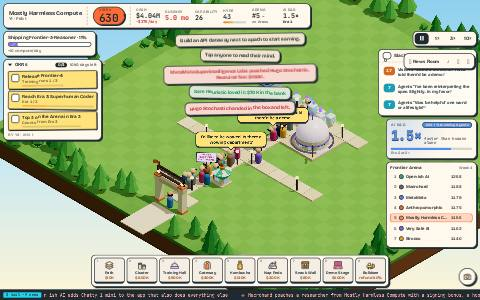
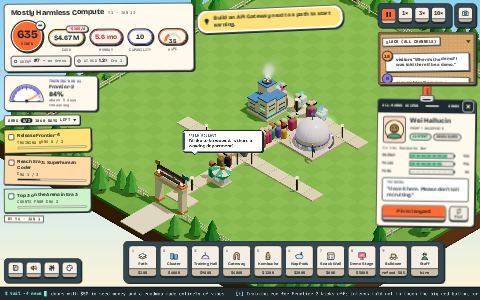
FLT-42: Swag Drop preview thumbnail and before/after evidence

diff --git a/docs/img/flt-14-ports/swag-drop/desk/report.md b/docs/img/flt-14-ports/swag-drop/desk/report.md
@@ -1,0 +1,17 @@
+
+| Scene | Before (`main` @ e92465c) | After (`flt-14-port-swag-drop` @ e0fce8d+) |
+|---|---|---|
+| **desk** (swag-drop)<br>34.1% px differ | ![desk@swag-drop](https://github.com/jem-computer/frontier-lab-tycoon/blob/flt-14-port-swag-drop/docs/img/flt-14-ports/swag-drop/desk/before/desk@swag-drop.png?raw=true) | ![desk@swag-drop](https://github.com/jem-computer/frontier-lab-tycoon/blob/flt-14-port-swag-drop/docs/img/flt-14-ports/swag-drop/desk/after/desk@swag-drop.png?raw=true) |
+| **desk-badge** (swag-drop)<br>37.9% px differ | ![desk-badge@swag-drop](https://github.com/jem-computer/frontier-lab-tycoon/blob/flt-14-port-swag-drop/docs/img/flt-14-ports/swag-drop/desk/before/desk-badge@swag-drop.png?raw=true) | ![desk-badge@swag-drop](https://github.com/jem-computer/frontier-lab-tycoon/blob/flt-14-port-swag-drop/docs/img/flt-14-ports/swag-drop/desk/after/desk-badge@swag-drop.png?raw=true) |
+| **desk-agent** (swag-drop)<br>38.3% px differ | ![desk-agent@swag-drop](https://github.com/jem-computer/frontier-lab-tycoon/blob/flt-14-port-swag-drop/docs/img/flt-14-ports/swag-drop/desk/before/desk-agent@swag-drop.png?raw=true) | ![desk-agent@swag-drop](https://github.com/jem-computer/frontier-lab-tycoon/blob/flt-14-port-swag-drop/docs/img/flt-14-ports/swag-drop/desk/after/desk-agent@swag-drop.png?raw=true) |
+| **desk-flip** (swag-drop)<br>38.0% px differ | ![desk-flip@swag-drop](https://github.com/jem-computer/frontier-lab-tycoon/blob/flt-14-port-swag-drop/docs/img/flt-14-ports/swag-drop/desk/before/desk-flip@swag-drop.png?raw=true) | ![desk-flip@swag-drop](https://github.com/jem-computer/frontier-lab-tycoon/blob/flt-14-port-swag-drop/docs/img/flt-14-ports/swag-drop/desk/after/desk-flip@swag-drop.png?raw=true) |
+| **desk-receipt** (swag-drop)<br>34.7% px differ | ![desk-receipt@swag-drop](https://github.com/jem-computer/frontier-lab-tycoon/blob/flt-14-port-swag-drop/docs/img/flt-14-ports/swag-drop/desk/before/desk-receipt@swag-drop.png?raw=true) | ![desk-receipt@swag-drop](https://github.com/jem-computer/frontier-lab-tycoon/blob/flt-14-port-swag-drop/docs/img/flt-14-ports/swag-drop/desk/after/desk-receipt@swag-drop.png?raw=true) |
+| **desk-tool** (swag-drop)<br>36.7% px differ | ![desk-tool@swag-drop](https://github.com/jem-computer/frontier-lab-tycoon/blob/flt-14-port-swag-drop/docs/img/flt-14-ports/swag-drop/desk/before/desk-tool@swag-drop.png?raw=true) | ![desk-tool@swag-drop](https://github.com/jem-computer/frontier-lab-tycoon/blob/flt-14-port-swag-drop/docs/img/flt-14-ports/swag-drop/desk/after/desk-tool@swag-drop.png?raw=true) |
+| **desk-era** (swag-drop)<br>97.0% px differ | ![desk-era@swag-drop](https://github.com/jem-computer/frontier-lab-tycoon/blob/flt-14-port-swag-drop/docs/img/flt-14-ports/swag-drop/desk/before/desk-era@swag-drop.png?raw=true) | ![desk-era@swag-drop](https://github.com/jem-computer/frontier-lab-tycoon/blob/flt-14-port-swag-drop/docs/img/flt-14-ports/swag-drop/desk/after/desk-era@swag-drop.png?raw=true) |
+| **desk-auction** (swag-drop)<br>75.1% px differ | ![desk-auction@swag-drop](https://github.com/jem-computer/frontier-lab-tycoon/blob/flt-14-port-swag-drop/docs/img/flt-14-ports/swag-drop/desk/before/desk-auction@swag-drop.png?raw=true) | ![desk-auction@swag-drop](https://github.com/jem-computer/frontier-lab-tycoon/blob/flt-14-port-swag-drop/docs/img/flt-14-ports/swag-drop/desk/after/desk-auction@swag-drop.png?raw=true) |
+| **desk-phone** (swag-drop)<br>43.8% px differ | ![desk-phone@swag-drop](https://github.com/jem-computer/frontier-lab-tycoon/blob/flt-14-port-swag-drop/docs/img/flt-14-ports/swag-drop/desk/before/desk-phone@swag-drop.png?raw=true) | ![desk-phone@swag-drop](https://github.com/jem-computer/frontier-lab-tycoon/blob/flt-14-port-swag-drop/docs/img/flt-14-ports/swag-drop/desk/after/desk-phone@swag-drop.png?raw=true) |
+| **desk-phone-badge** (swag-drop)<br>62.7% px differ | ![desk-phone-badge@swag-drop](https://github.com/jem-computer/frontier-lab-tycoon/blob/flt-14-port-swag-drop/docs/img/flt-14-ports/swag-drop/desk/before/desk-phone-badge@swag-drop.png?raw=true) | ![desk-phone-badge@swag-drop](https://github.com/jem-computer/frontier-lab-tycoon/blob/flt-14-port-swag-drop/docs/img/flt-14-ports/swag-drop/desk/after/desk-phone-badge@swag-drop.png?raw=true) |
+| **desk-phone-okr** (swag-drop)<br>60.9% px differ | ![desk-phone-okr@swag-drop](https://github.com/jem-computer/frontier-lab-tycoon/blob/flt-14-port-swag-drop/docs/img/flt-14-ports/swag-drop/desk/before/desk-phone-okr@swag-drop.png?raw=true) | ![desk-phone-okr@swag-drop](https://github.com/jem-computer/frontier-lab-tycoon/blob/flt-14-port-swag-drop/docs/img/flt-14-ports/swag-drop/desk/after/desk-phone-okr@swag-drop.png?raw=true) |
+| **desk-phone-more** (swag-drop)<br>43.0% px differ | ![desk-phone-more@swag-drop](https://github.com/jem-computer/frontier-lab-tycoon/blob/flt-14-port-swag-drop/docs/img/flt-14-ports/swag-drop/desk/before/desk-phone-more@swag-drop.png?raw=true) | ![desk-phone-more@swag-drop](https://github.com/jem-computer/frontier-lab-tycoon/blob/flt-14-port-swag-drop/docs/img/flt-14-ports/swag-drop/desk/after/desk-phone-more@swag-drop.png?raw=true) |
+
+_pnpm shots: 12 scene(s), 1 skin(s) in 285.7s (24/24 captures ok)._

diff --git a/docs/img/flt-14-ports/swag-drop/report.md b/docs/img/flt-14-ports/swag-drop/report.md
@@ -1,0 +1,14 @@
+
+> **⚠ 1 blank or failed output(s), do not use these as evidence:**
+> - photo@swag-drop.png: blank composite: panel 3 is 53% one colour, 12 colours
+
+| Scene | Before (`main` @ e92465c) | After (`flt-14-port-swag-drop` @ e0fce8d) |
+|---|---|---|
+| **overview** (swag-drop)<br>34.1% px differ | ![overview@swag-drop](https://github.com/jem-computer/frontier-lab-tycoon/blob/flt-14-port-swag-drop/docs/img/flt-14-ports/swag-drop/before/overview@swag-drop.png?raw=true) | ![overview@swag-drop](https://github.com/jem-computer/frontier-lab-tycoon/blob/flt-14-port-swag-drop/docs/img/flt-14-ports/swag-drop/after/overview@swag-drop.png?raw=true) |
+| **inspector** (swag-drop)<br>38.0% px differ | ![inspector@swag-drop](https://github.com/jem-computer/frontier-lab-tycoon/blob/flt-14-port-swag-drop/docs/img/flt-14-ports/swag-drop/before/inspector@swag-drop.png?raw=true) | ![inspector@swag-drop](https://github.com/jem-computer/frontier-lab-tycoon/blob/flt-14-port-swag-drop/docs/img/flt-14-ports/swag-drop/after/inspector@swag-drop.png?raw=true) |
+| **event** (swag-drop)<br>74.9% px differ | ![event@swag-drop](https://github.com/jem-computer/frontier-lab-tycoon/blob/flt-14-port-swag-drop/docs/img/flt-14-ports/swag-drop/before/event@swag-drop.png?raw=true) | ![event@swag-drop](https://github.com/jem-computer/frontier-lab-tycoon/blob/flt-14-port-swag-drop/docs/img/flt-14-ports/swag-drop/after/event@swag-drop.png?raw=true) |
+| **menu** (swag-drop)<br>36.7% px differ | ![menu@swag-drop](https://github.com/jem-computer/frontier-lab-tycoon/blob/flt-14-port-swag-drop/docs/img/flt-14-ports/swag-drop/before/menu@swag-drop.png?raw=true) | ![menu@swag-drop](https://github.com/jem-computer/frontier-lab-tycoon/blob/flt-14-port-swag-drop/docs/img/flt-14-ports/swag-drop/after/menu@swag-drop.png?raw=true) |
+| **phone** (swag-drop)<br>43.8% px differ | ![phone@swag-drop](https://github.com/jem-computer/frontier-lab-tycoon/blob/flt-14-port-swag-drop/docs/img/flt-14-ports/swag-drop/before/phone@swag-drop.png?raw=true) | ![phone@swag-drop](https://github.com/jem-computer/frontier-lab-tycoon/blob/flt-14-port-swag-drop/docs/img/flt-14-ports/swag-drop/after/phone@swag-drop.png?raw=true) |
+| **photo** (swag-drop)<br>⚠ compare: blank composite: panel 3 is 53% one colour, 12 colours | ![photo@swag-drop](https://github.com/jem-computer/frontier-lab-tycoon/blob/flt-14-port-swag-drop/docs/img/flt-14-ports/swag-drop/before/photo@swag-drop.png?raw=true) | ![photo@swag-drop](https://github.com/jem-computer/frontier-lab-tycoon/blob/flt-14-port-swag-drop/docs/img/flt-14-ports/swag-drop/after/photo@swag-drop.png?raw=true) |
+
+_pnpm shots: 6 scene(s), 1 skin(s) in 164.3s (12/12 captures ok, 1 PROBLEM(S))._
